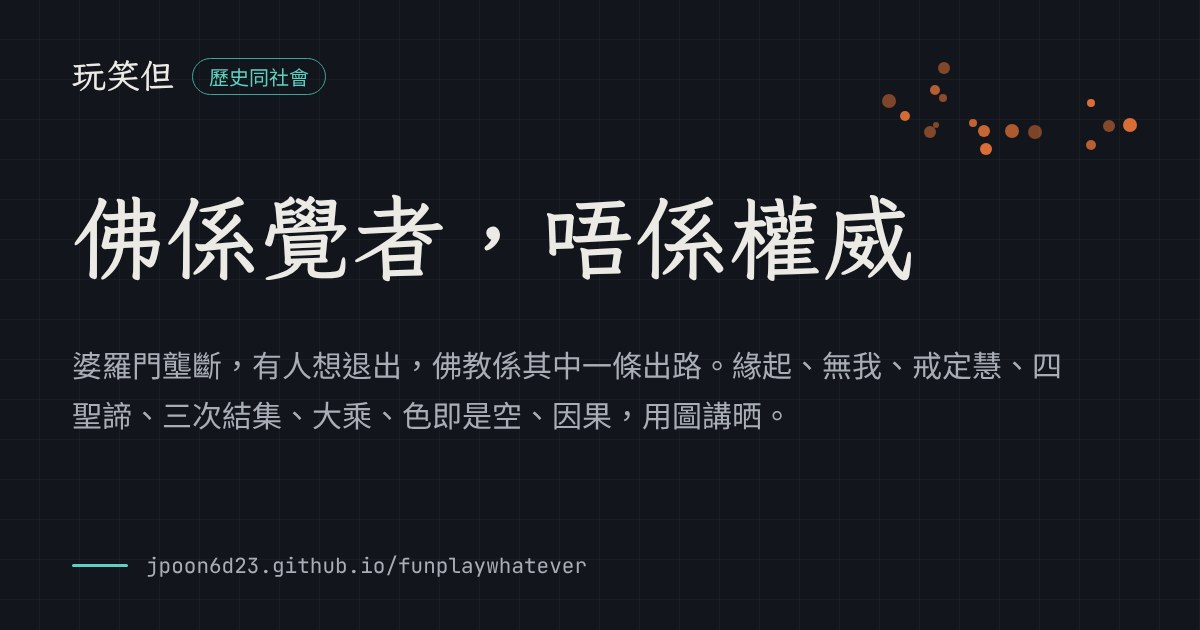
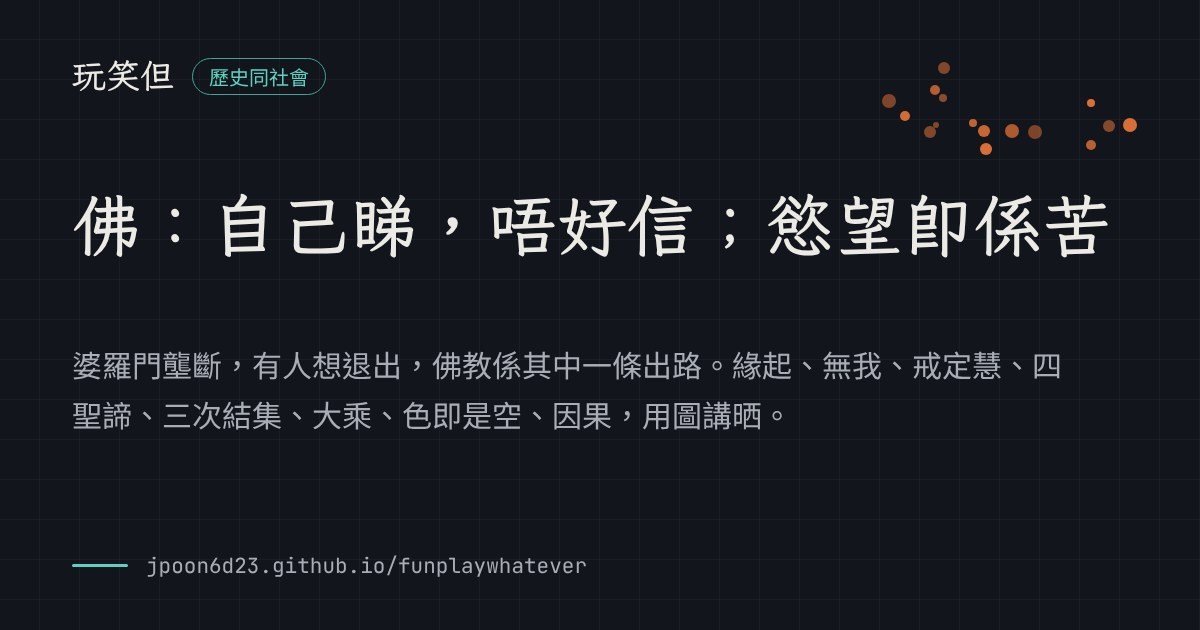
佛教頁改名：佛：自己睇，唔好信；慾望即係苦
Claude-Session: https://claude.ai/code/session_01XJ7gVYJnqS1RU6kYvgMmGN

Changed region(s): [[0.0617, 0.3016, 0.925, 0.4524]]

diff --git a/learn/index.html b/learn/index.html
@@ -81,7 +81,7 @@ h1{font:700 clamp(34px,6vw,48px)/1.2 var(--display);margin:24px 0 6px}
       <li data-c="philo"><a href="knowledge.html"><span class="meta"><span class="ct">哲學</span><span class="dt">2026-11-14</span></span><span class="nt">知識：一步一步行近真相</span><span class="nd">知識唔係真理，只係經驗過實證嘅解釋。永遠保持警惕，同時保持樂觀，由石器一步一步行到今日。自由生創新，創新生繁榮。</span><span class="na" aria-hidden="true">→</span></a></li>
       <li data-c="sci"><a href="carbon.html"><span class="meta"><span class="ct">科學</span><span class="dt">2026-11-14</span></span><span class="nt">全部都係碳</span><span class="nd">碳有 4 隻手，所以砌得出生命。糖、油、蛋白、火、汽油、DNA、鑽石、鋼，全部都係碳，只係排法唔同。</span><span class="na" aria-hidden="true">→</span></a></li>
       <li data-c="money"><a href="business.html"><span class="meta"><span class="ct">錢</span><span class="dt">2026-11-14</span></span><span class="nt">做生意 = Productize yourself</span><span class="nd">生意嘅本質係提供價值，但你唔知人哋要唔要，所以某程度上係自嗨，然後等人鍾意。誠實、聰明、鍾意；Technician、Manager、Storyteller；認識自己。</span><span class="na" aria-hidden="true">→</span></a></li>
-      <li data-c="hist"><a href="buddhism.html"><span class="meta"><span class="ct">歷史同社會</span><span class="dt">2026-11-14</span></span><span class="nt">佛係覺者，唔係權威</span><span class="nd">婆羅門壟斷，有人想退出，佛教係其中一條出路。緣起、無我、戒定慧、四聖諦、三次結集、大乘、色即是空、因果，用圖講晒。</span><span class="na" aria-hidden="true">→</span></a></li>
+      <li data-c="hist"><a href="buddhism.html"><span class="meta"><span class="ct">歷史同社會</span><span class="dt">2026-11-14</span></span><span class="nt">佛：自己睇，唔好信；慾望即係苦</span><span class="nd">婆羅門壟斷，有人想退出，佛教係其中一條出路。緣起、無我、戒定慧、四聖諦、三次結集、大乘、色即是空、因果，用圖講晒。</span><span class="na" aria-hidden="true">→</span></a></li>
       <li data-c="philo"><a href="aot-forest.html"><span class="meta"><span class="ct">哲學</span><span class="dt">2026-11-12</span></span><span class="nt">走出森林：莎夏、佢老豆，同仇恨嘅循環</span><span class="nd">進擊的巨人：由莎夏肚餓開始，佢老豆睇到成條線。森林就係弱肉強食、殺同被殺嘅循環；世界冇真正嘅惡魔。至少，讓小朋友離開森林。</span><span class="na" aria-hidden="true">→</span></a></li>
       <li data-c="money"><a href="blockchain.html"><span class="meta"><span class="ct">錢</span><span class="dt">2026-11-11</span></span><span class="nt">Blockchain 嘅本質：一本冇人擁有嘅數簿</span><span class="nd">用計算力代替政府建立信任，防止同一筆錢使兩次。簽名、hash 指紋、挖礦、串鏈，自己撳下就明。</span><span class="na" aria-hidden="true">→</span></a></li>
       <li data-c="philo" data-pin="5"><a href="raft-tools.html"><span class="meta"><span class="pin">置頂</span><span class="ct">哲學</span><span class="dt">2026-11-11</span></span><span class="nt">艇仔係攞嚟過河，唔係攞嚟孭</span><span class="nd">學到嘅嘢係工具：幾時用、幾時抌低，就係智慧。誠實同做戲、自私同無私，當佢哋係工具，矛盾就消失。</span><span class="na" aria-hidden="true">→</span></a></li>

diff --git a/learn/buddhism.html b/learn/buddhism.html
@@ -3,16 +3,16 @@
 <head>
 <meta charset="utf-8">
 <meta name="viewport" content="width=device-width,initial-scale=1,viewport-fit=cover">
-<title>佛係覺者，唔係權威</title>
+<title>佛：自己睇，唔好信；慾望即係苦</title>
 <meta name="description" content="婆羅門壟斷，有人想退出，佛教係其中一條出路。緣起、無我、戒定慧、四聖諦、三次結集、大乘、色即是空、因果，用圖講晒。">
-<meta property="og:title" content="佛係覺者，唔係權威">
+<meta property="og:title" content="佛：自己睇，唔好信；慾望即係苦">
 <meta property="og:description" content="婆羅門壟斷，有人想退出，佛教係其中一條出路。緣起、無我、戒定慧、四聖諦、三次結集、大乘、色即是空、因果，用圖講晒。">
 <meta property="og:type" content="article">
 <meta property="og:url" content="https://jpoon6d23.github.io/funplaywhatever/learn/buddhism.html">
 <meta property="og:image" content="https://jpoon6d23.github.io/funplaywhatever/img/og/buddhism.jpg">
 <meta property="og:image:width" content="1200">
 <meta property="og:image:height" content="630">
-<meta property="og:image:alt" content="佛係覺者，唔係權威">
+<meta property="og:image:alt" content="佛：自己睇，唔好信；慾望即係苦">
 <meta property="og:site_name" content="玩笑但">
 <meta property="og:locale" content="zh_HK">
 <meta name="twitter:card" content="summary_large_image">
@@ -175,7 +175,7 @@ svg text{font-family:var(--body)}
     <text x="120" y="206" text-anchor="middle" class="t-a" font-size="14" font-weight="700">手指 ≠ 月</text>
   </svg>
   <div>
-    <h1>佛係覺者，唔係權威</h1>
+    <h1>佛：自己睇，唔好信；慾望即係苦</h1>
     <p class="said">Buddha = awarer，not authority。佛唔係嚟命令你，係話俾你知佢見到乜，你自己去睇。</p>
     <p class="lede">佢講嘅嘢係手指，月要你自己望。婆羅門壟斷咗成個社會，有人想退出，佛教係其中一條出路。</p>
   </div>
